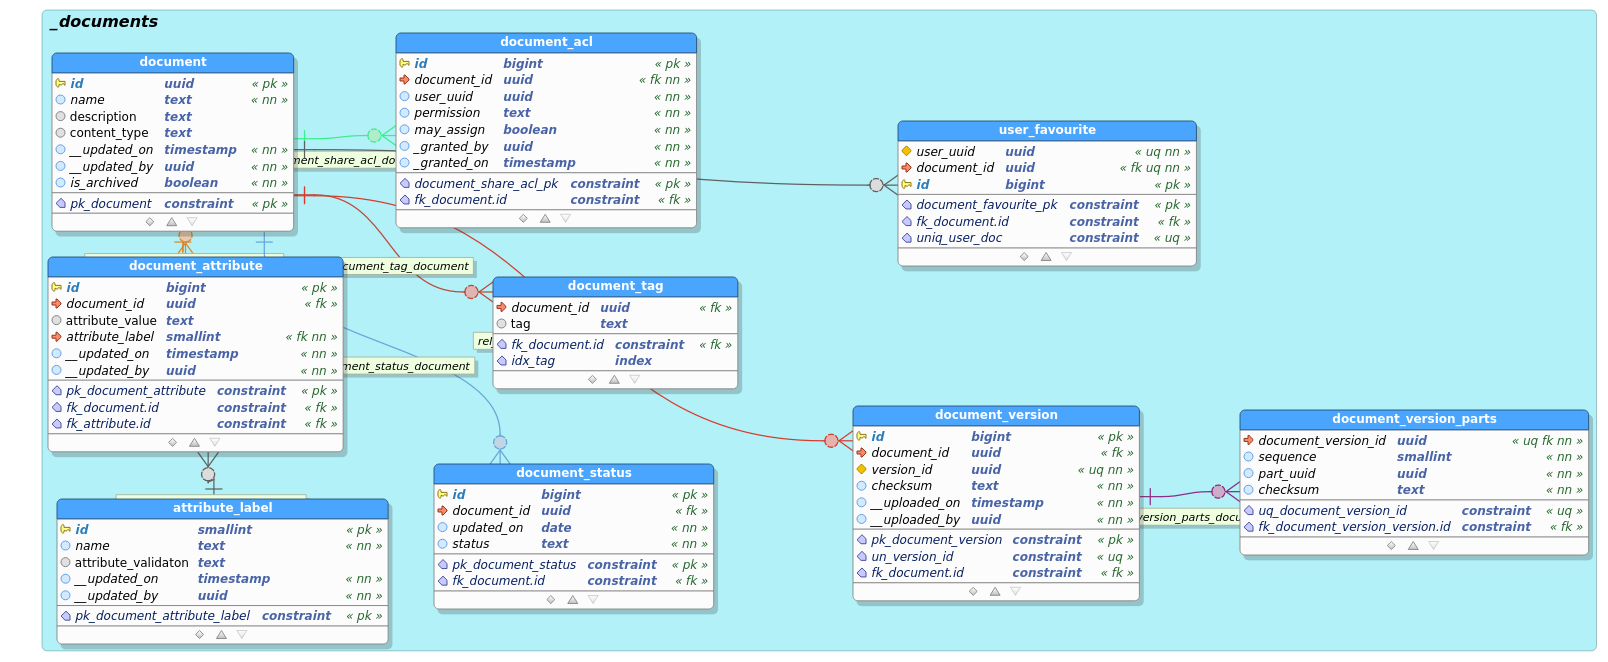
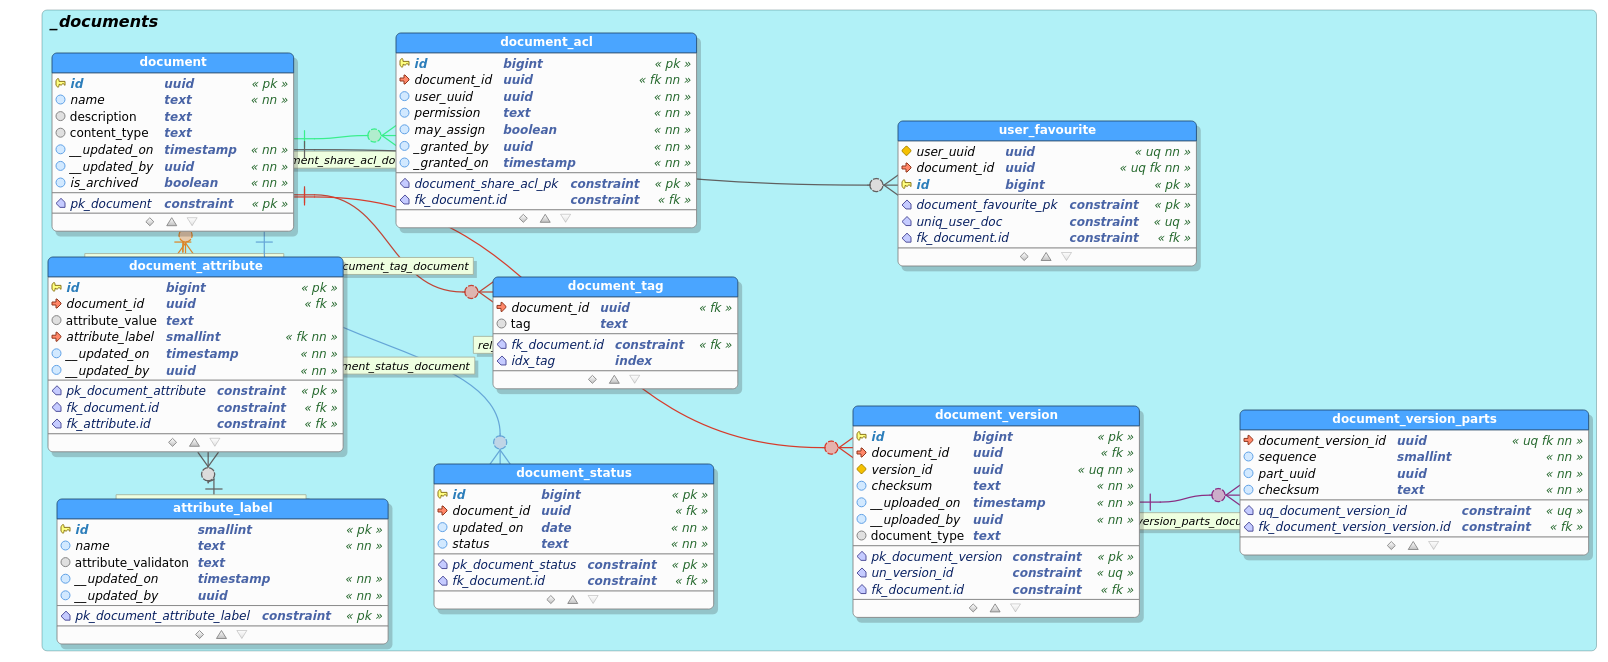
[2052] Added file type detection when a document is uploaded

diff --git a/src/test/java/za/co/grindrodbank/dokuti/document/DocumentServiceUnitTests.java b/src/test/java/za/co/grindrodbank/dokuti/document/DocumentServiceUnitTests.java
@@ -222,7 +222,7 @@ public class DocumentServiceUnitTests {
 		mockDocumentVersion.setUploadedBy(userId);
 
 		Mockito.when(documentRepository.save(any(DocumentEntity.class))).thenReturn(documentMock);
-		Mockito.when(documentVersionService.createDocumentVersion(any(DocumentEntity.class), any(String.class)))
+		Mockito.when(documentVersionService.createDocumentVersion(any(DocumentEntity.class), any(String.class), any(String.class)))
 				.thenReturn(mockDocumentVersion);
 
 		PowerMockito.mockStatic(SecurityContextUtility.class);
@@ -325,7 +325,7 @@ public class DocumentServiceUnitTests {
 		mockDocumentVersion.setId(documentVersionId);
 		mockDocumentVersion.setUploadedBy(userId);
 
-		Mockito.when(documentVersionService.createDocumentVersion(any(DocumentEntity.class), any(String.class)))
+		Mockito.when(documentVersionService.createDocumentVersion(any(DocumentEntity.class), any(String.class), any(String.class)))
 				.thenReturn(mockDocumentVersion);
 		Mockito.when(documentRepository.save(any(DocumentEntity.class))).thenReturn(documentMock);
 		Mockito.when(resourcePermission.accessingUserCanWriteDocument((any(DocumentEntity.class)))).thenReturn(true);
@@ -379,7 +379,7 @@ public class DocumentServiceUnitTests {
 		mockDocumentVersion.setId(documentVersionId);
 		mockDocumentVersion.setUploadedBy(userId);
 
-		Mockito.when(documentVersionService.createDocumentVersion(any(DocumentEntity.class), any(String.class)))
+		Mockito.when(documentVersionService.createDocumentVersion(any(DocumentEntity.class), any(String.class), any(String.class)))
 				.thenReturn(mockDocumentVersion);
 		Mockito.when(documentRepository.save(any(DocumentEntity.class))).thenReturn(documentMock);
 		Mockito.when(resourcePermission.accessingUserCanWriteDocument((any(DocumentEntity.class)))).thenReturn(true);
@@ -413,7 +413,7 @@ public class DocumentServiceUnitTests {
 		mockDocumentVersion.setId(documentVersionId);
 		mockDocumentVersion.setUploadedBy(userId);
 
-		Mockito.when(documentVersionService.createDocumentVersion(any(DocumentEntity.class), any(String.class)))
+		Mockito.when(documentVersionService.createDocumentVersion(any(DocumentEntity.class), any(String.class), any(String.class)))
 				.thenReturn(mockDocumentVersion);
 		Mockito.when(documentRepository.save(any(DocumentEntity.class))).thenReturn(documentMock);
 		Mockito.when(resourcePermission.accessingUserCanWriteDocument((any(DocumentEntity.class)))).thenReturn(false);

diff --git a/src/main/java/za/co/grindrodbank/dokuti/document/DocumentServiceImpl.java b/src/main/java/za/co/grindrodbank/dokuti/document/DocumentServiceImpl.java
@@ -15,6 +15,7 @@ import java.util.List;
 import java.util.Optional;
 import java.util.UUID;
 
+import org.apache.tika.Tika;
 import org.slf4j.Logger;
 import org.slf4j.LoggerFactory;
 import org.springframework.beans.factory.annotation.Autowired;
@@ -200,6 +201,7 @@ public class DocumentServiceImpl implements DocumentService {
 	 */
 	private DocumentVersionEntity createDocumentVersionWithFile(MultipartFile file, DocumentEntity document) {
 		String fileContentChecksum = "";
+		String documentType ="";
 
 		try {
 			fileContentChecksum = getFileContentChecksum(file.getBytes());
@@ -207,16 +209,33 @@ public class DocumentServiceImpl implements DocumentService {
 			logger.error(e.getMessage());
 		}
 
+		Tika tika = new Tika();
+		try {
+		    documentType = tika.detect(file.getInputStream());
+        } catch (IOException e) {
+            logger.error(e.getMessage());
+            throw new ResourceNotFoundException("Error reading document data.", e);
+        }
+		
 		DocumentVersionEntity newDocumentVersion = documentVersionService.createDocumentVersion(document,
-				fileContentChecksum);
+				fileContentChecksum, documentType);
 		documentStoreService.store(file, document.getId(), newDocumentVersion.getId());
 
 		return newDocumentVersion;
 	}
 
     private DocumentVersionEntity createDocumentVersionWithInputStream(InputStream is, String fileContentChecksum, DocumentEntity document) {
-
-        DocumentVersionEntity newDocumentVersion = documentVersionService.createDocumentVersion(document, fileContentChecksum);
+        
+        String documentType ="";
+        Tika tika = new Tika();
+        try {
+            documentType = tika.detect(is);
+        } catch (IOException e) {
+            logger.error(e.getMessage());
+            throw new ResourceNotFoundException("Error reading document data.", e);
+        }
+        
+        DocumentVersionEntity newDocumentVersion = documentVersionService.createDocumentVersion(document, fileContentChecksum, documentType);
         documentStoreService.store(is, document.getId(), newDocumentVersion.getId());
 
         return newDocumentVersion;

diff --git a/src/main/java/za/co/grindrodbank/dokuti/exceptionhandlers/RestResourceExceptionHandler.java b/src/main/java/za/co/grindrodbank/dokuti/exceptionhandlers/RestResourceExceptionHandler.java
@@ -11,6 +11,7 @@ import org.springframework.web.bind.annotation.ControllerAdvice;
 import org.springframework.web.bind.annotation.ExceptionHandler;
 import org.springframework.web.bind.annotation.ResponseBody;
 import org.springframework.web.bind.annotation.ResponseStatus;
+import org.springframework.web.multipart.MaxUploadSizeExceededException;
 import org.springframework.web.servlet.mvc.method.annotation.ResponseEntityExceptionHandler;
 
 import za.co.grindrodbank.dokuti.exceptions.ChecksumFailedException;
@@ -30,7 +31,7 @@ public class RestResourceExceptionHandler extends ResponseEntityExceptionHandler
 		return new ResponseEntity<>(error, HttpStatus.NOT_FOUND);
 	}
 
-	@ExceptionHandler(InvalidRequestException.class)
+	@ExceptionHandler({InvalidRequestException.class, MaxUploadSizeExceededException.class})
 	@ResponseBody
 	@ResponseStatus(HttpStatus.BAD_REQUEST)
 	public ResponseEntity<ErrorResponse> handleInvalidRequestException(RuntimeException ex) {

diff --git a/src/main/java/za/co/grindrodbank/dokuti/documentversion/DocumentVersionEntity.java b/src/main/java/za/co/grindrodbank/dokuti/documentversion/DocumentVersionEntity.java
@@ -17,6 +17,8 @@ import javax.persistence.ManyToOne;
 import javax.persistence.Table;
 
 import org.hibernate.annotations.CreationTimestamp;
+import org.hibernate.annotations.Type;
+
 import com.fasterxml.jackson.annotation.JsonIgnore;
 
 import za.co.grindrodbank.dokuti.document.DocumentEntity;
@@ -38,6 +40,10 @@ public class DocumentVersionEntity {
 
 	@Column(length = 32)
 	private String checksum;
+	
+    @Type(type = "org.hibernate.type.TextType")
+    @Column(name = "document_type", nullable = false)
+    private String documentType;	
 
 	@ManyToOne(fetch = FetchType.LAZY)
 	@JoinColumn(name = "document_id")
@@ -83,5 +89,13 @@ public class DocumentVersionEntity {
 	public void setChecksum(String checksum) {
 		this.checksum = checksum;
 	}
+
+    public String getDocumentType() {
+        return documentType;
+    }
+
+    public void setDocumentType(String documentType) {
+        this.documentType = documentType;
+    }
 
 }

diff --git a/src/main/java/za/co/grindrodbank/dokuti/documentversion/DocumentVersionServiceImpl.java b/src/main/java/za/co/grindrodbank/dokuti/documentversion/DocumentVersionServiceImpl.java
@@ -56,10 +56,11 @@ public class DocumentVersionServiceImpl implements DocumentVersionService {
 		}
 	}
 
-	public DocumentVersionEntity createDocumentVersion(DocumentEntity document, String checksum) {
+	public DocumentVersionEntity createDocumentVersion(DocumentEntity document, String checksum, String documentType) {
 		DocumentVersionEntity documentVersion = new DocumentVersionEntity();
 		documentVersion.setDocument(document);
 		documentVersion.setChecksum(checksum);
+		documentVersion.setDocumentType(documentType);
 
 		try {
 			documentVersion = save(documentVersion);

diff --git a/src/main/java/za/co/grindrodbank/dokuti/document/DocumentControllerImpl.java b/src/main/java/za/co/grindrodbank/dokuti/document/DocumentControllerImpl.java
@@ -147,7 +147,7 @@ public class DocumentControllerImpl implements DocumentsApi {
 
 		return ResponseEntity.ok()
 				.header(HttpHeaders.CONTENT_DISPOSITION, "attachment; filename=\"" + documentEntity.getName() + "\"")
-				.contentType(MediaType.parseMediaType(documentEntity.getContentType()))
+				.contentType(MediaType.parseMediaType(documentEntity.getLatestDocumentVersion().getDocumentType()))
 				.body(documentService.getLatestDocumentData(documentEntity));
 	}
 

diff --git a/src/main/java/za/co/grindrodbank/dokuti/documentversion/DocumentVersionService.java b/src/main/java/za/co/grindrodbank/dokuti/documentversion/DocumentVersionService.java
@@ -35,6 +35,6 @@ public interface DocumentVersionService {
 	 * @param document The document to create the new version for.
 	 * @return An instance of the newly created document version.
 	 */
-	public DocumentVersionEntity createDocumentVersion(DocumentEntity document, String checksum);
+	public DocumentVersionEntity createDocumentVersion(DocumentEntity document, String checksum, String documentType);
 
 }
